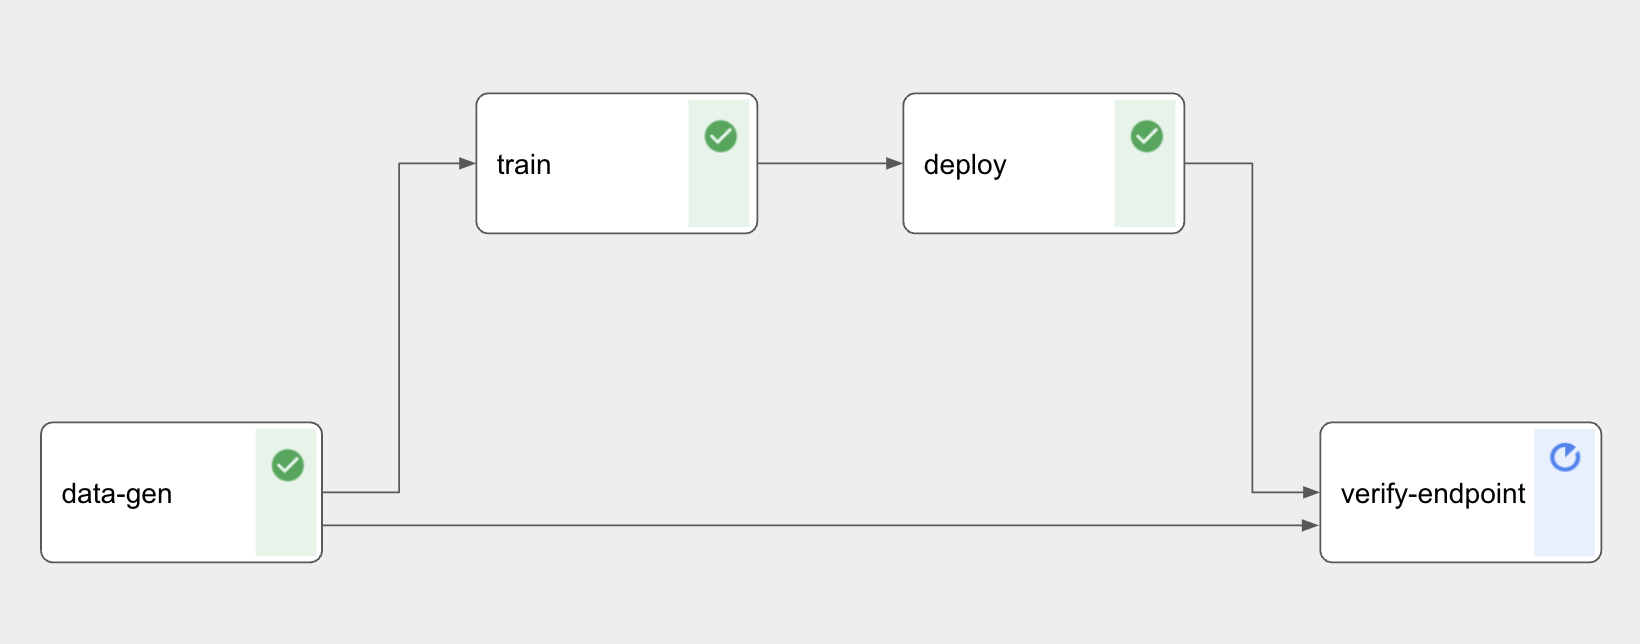
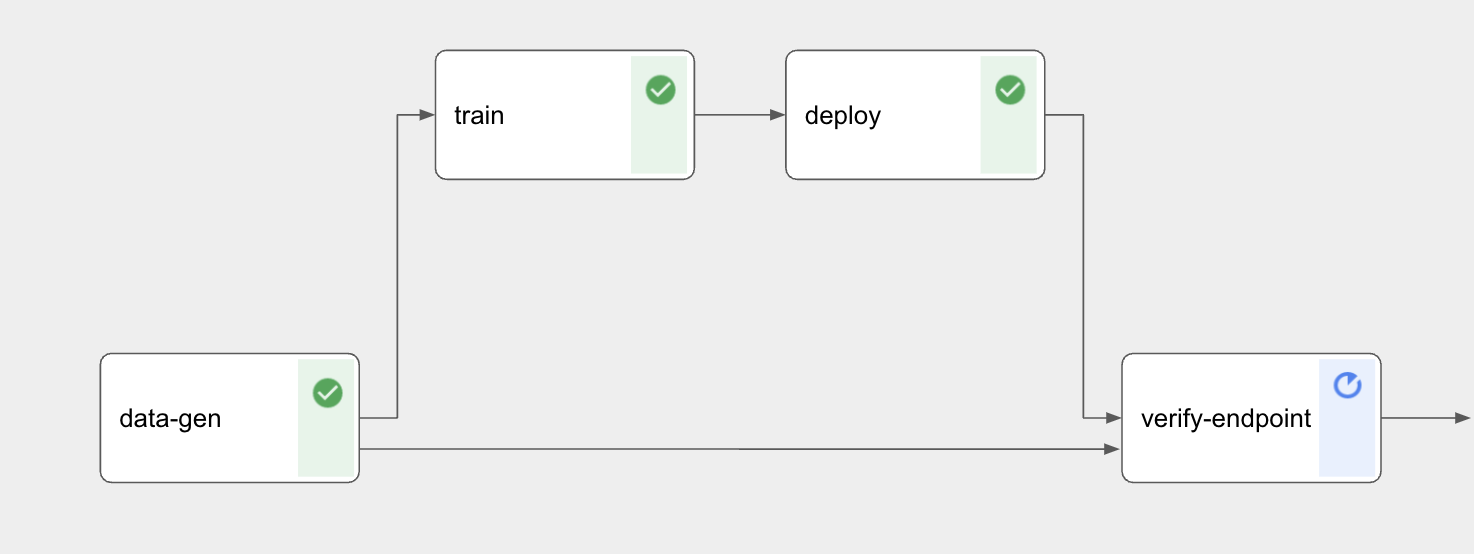
translated texts to english and updated the pipeline image

diff --git a/content/posts/mlops-poc.md b/content/posts/mlops-poc.md
@@ -1,70 +1,73 @@
 ---
-title: "Automating an Machine Learning Pipeline with MLOps"
+title: "Automating the Machine Learning Workflow with MLOps"
 date: 2024-02-02T14:46:18+01:00
-author: "Victor, Lars, Simon & Martin"
+author: "Victor Wolf, Lars Kleinschmidt, Martin Siehler & Simon Siedersleben"
 type: "post"
 image: "mlops-poc/pipeline.png"
 tags: [MLOps, AI, Machine Learning, Kubeflow]
 draft: true
-summary: In diesem Artikel zeigen wir euch unser Konzept eines MLOps Blueprints der QAware.
+summary: In this article we present the QAware concept of an MLOps Blueprint.
 ---
 
-# Was ist MLOps überhaupt?
-MLOps (Machine Learning Operations) ist ein Paradigma, das darauf abzielt, Machine Learning Modelle zuverlässig und effizient zu implementieren und zu warten. MLOps unterscheidet sich vom klassischen DevOps insbesondere dadurch, dass es die Integration von  Modellen und Daten im Entwicklungsprozess, sowie Betrieb umfasst.
-Eine Herausforderung besteht darin, dass diese Daten und Modelle sehr groß sein können, was die aktive Entwicklung und Wartung dieser Systeme erschwert. Im besten Fall orchestriert MLOps nicht nur das Management von Big Data und komplexen Modellen, sondern erleichtert auch die Zusammenarbeit zwischen Data Scientists, Entwicklern und Operations Engineers.
+# What is MLOps anyway?
+MLOps (Machine Learning Operations) is a paradigm that aims to implement and maintain machine learning models reliably and efficiently. MLOps differs from classic DevOps in particular in that it includes the integration of models and data in the development process as well as operations.
+One challenge is that this data and models can be very large, which makes it difficult to actively develop and maintain these systems. At its best, MLOps not only orchestrates the management of big data and complex models, but also facilitates collaboration between data scientists, developers and operations engineers.
 
 
-# Kontext
-Mehr als je zuvor spürt man den Einfluss von KI in der heutigen Gesellschaft. Auch in der Projektwelt gibt es derzeit zahlreiche KI-Projekte oder Projekte, die durch KI optimiert werden können. Sei es in der Gesichtserkennung, Produktempfehlung, Anomalie-Erkennung oder Chatbots. Deswegen haben wir im Rahmen unserer KI-Gilde einen Blueprint entworfen, der KI optimal in die Softwareentwicklung integriert..
+# Context
+More than ever before, the influence of AI can be felt in today's society. In the project world, too, there are currently numerous AI projects or projects that can be optimized using AI. Be it in facial recognition, product recommendation, anomaly detection or chatbots. That is why we have developed a blueprint as part of our AI Guild that optimally integrates AI into software development.
 
-Neben dem Aufbau von Wissen zu diesem Themengebiet wählten wir einen praktischen Ansatz und setzten uns zum Ziel, ein einfaches ML-Problem mittels der typischen MLOps Techniken anzugehen und in einem PoC festzuhalten. Vor allem war uns wichtig, die Pipeline selbst gestalten zu können und sie in einer von uns gemanagten Cloud zu betreiben.
+In addition to building up knowledge on this topic, we chose a practical approach and set ourselves the goal of tackling a simple ML problem using typical MLOps techniques and recording it in a PoC. Above all, it was important for us to be able to design the pipeline ourselves and operate it in a cloud managed by us.
 
-Dabei kam nun direkt die erste Frage auf: Mit welchen Technologien wollen wir diese Pipeline denn überhaupt bauen und deployen? Nach kurzem googeln fanden wir schnell zahlreiche Lösungen, die einen einfachen Einsatz von MLOps mit einem hohen Maß an Anpassbarkeit an Cloud- und Projektbedingungen versprachen. Also folgten wir einfach mal diesen Ansätzen und testeten verschiedene Frameworks aus. Leider mussten wir dann schnell feststellen, dass wir Opfer von viel zu hohen Versprechungen geworden sind. Die Lösungen waren zum Teil technisch viel zu unreif oder eben doch nicht so flexibel einsetzbar wie erhofft.
-ZenML war ein typisches Beispiel dafür. Lokal konnten wir recht schnell eine Pipeline aufsetzen, die unser Problem lösen konnte. Die großen Probleme kamen dann allerdings beim Versuch, diese Pipeline in der Cloud zu betreiben. Die anscheinend einfache Deployment Funktionalität führte zu zahlreichen Fehlern, bei denen wir nach einigen Fix-Versuchen und Einstellen von Issues auf GitHub auch nicht weiter kamen, bis wir das Projekt wieder beiseite legten.
-Einen weiteren Versuch machten wir mit TFX. TFX ist ein TensorFlow Execution Framework, welches auf Kubeflow Pipelines aufbaut. Diese Lösung funktioniert ähnlich zu Kubeflow Pipelines und packt nochmals einen Abstraktionslayer obendrauf. Damit konnten wir Pipelines in der Cloud deployen. Der Mehrwert im Vergleich zu Kubeflow Pipelines allerdings war uns zu gering.
+The first question arose immediately: Which technologies do we actually want to use to build and deploy this pipeline? After a quick google search, we quickly found numerous solutions that promised a simple deployment of MLOps with a high degree of adaptability to cloud and project conditions. So we simply followed these approaches and tested various frameworks. Unfortunately, we soon realized that we had fallen victim to promises that were far too high.Some of the solutions were technically far too immature or not as flexible to use as we had hoped.
+ZenML was a typical example of this.Locally, we were able to quickly set up a pipeline that could solve our problem. However, the big problems came when we tried to operate this pipeline in the cloud.The seemingly simple deployment functionality led to numerous errors, and after a few attempts to fix them and post issues on GitHub, we made no progress until we put the project aside again.
+We made another attempt with TFX. TFX is a TensorFlow execution framework that is based on Kubeflow Pipelines. This solution works similarly to Kubeflow Pipelines and adds an abstraction layer on top. This allowed us to deploy pipelines in the cloud. However, the added value compared to Kubeflow Pipelines was too low for us.
 
-Damit kamen wir unserer Entscheidung jedoch schon einen Schritt näher. Also warum nicht einfach direkt Kubeflow Pipelines einsetzen? Mittels Kubeflow Pipelines lassen sich eigene Pipelines recht einfach definieren und direkt auf einem Kubeflow Cluster deployen. Kubeflow selbst setzt direkt auf den Kubernetes Stack auf und läuft deshalb Cloud agnostisch. Für diese Lösung brauchten wir zwar etwas mehr Anpassungen und Konfiguration, um die Komponenten zu verdrahten. Allerdings hatten wir dadurch auch direkten Einfluss auf die Funktionalität, wie wir sie für unsere Pipeline brauchten. Im Endeffekt begannen wir damals unser eigenes MLOps Framework/Blueprint basierend auf Kubeflow Pipelines aufzubauen. Nun haben wir die volle Kontrolle über die Funktionalität und können bei Problemen einfacher reagieren.
+However, this brought us one step closer to our decision. So why not just use Kubeflow Pipelines directly? With Kubeflow Pipelines, you can easily define your own pipelines and deploy them directly on a Kubeflow cluster. Kubeflow itself is based directly on the Kubernetes stack and therefore runs cloud agnostic. For this solution, we needed a little more customization and configuration to wire the components.
+However, this also gave us direct influence on the functionality we needed for our pipeline. In the end, we started to build our own MLOps framework/blueprint based on Kubeflow pipelines.Now we have full control over the functionality and can react more easily in case of problems.
 
-Damit machten wir uns auf den Weg, den geplanten PoC anzugehen.
+With that, we set out to tackle the planned PoC.
 
 
 # PoC
 
-Um die Entscheidung für Kubeflow zu validieren, haben wir eine Proof of Concept (PoC) Pipeline entwickelt, um die Funktionsweise von Kubeflow im Detail kennenzulernen. Hierfür haben wir ein simples TensorFlow-Modell (Fashion MNIST) genutzt.
+To validate the decision for Kubeflow, we developed a Proof of Concept (PoC) pipeline to get to know the functionality of Kubeflow in detail. We used a simple TensorFlow model (Fashion MNIST) for this.
 
-Für die Ausführung und das Deployment haben wir zwei alternative Varianten aufgebaut. Die eine Variante nutzt eine klassische Kubeflow-Instanz, welche wir in der Google Kubernetes Engine (GKE) laufen lassen, die andere nutzt Vertex AI. Vertex AI kann Kubeflow-Pipelines ausführen, mit wenig administrativen Overhead.
+We developed two alternative variants for execution and deployment. One variant uses a classic Kubeflow instance, which we run in the Google Kubernetes Engine (GKE), while the other uses Vertex AI.
+Vertex AI can run Kubeflow pipelines with little administrative overhead.
 
-Die Vertex AI - Variante ist gut geeignet, wenn man schnell in die Feinheiten von Kubeflow einsteigen möchte, ohne sich um eine Kubeflow-Instanz kümmern zu müssen. Im Sinne der Unabhängigkeit von Cloud-Anbietern macht eine eigene Kubeflow-Instanz aber oftmals mehr Sinn.
+The Vertex AI variant is well suited if you want to quickly get into the intricacies of Kubeflow without having to worry about a Kubeflow instance.
 
-Die Pipeline übernimmt vier Schritte:
+However, in terms of independence from cloud providers, a separate Kubeflow instance often makes more sense.The pipeline performs four steps:
 
-### 1. Daten laden
+### 1. loading data
 
-Die Daten zum Trainieren und Evaluieren des Modells müssen zu Beginn bereitgestellt werden. In diesem Fall werden die Daten aus dem Keras Fahion-MNIST Datensatz geladen. Alternativ können sie aber auch aus CSV-Dateien, Datenbanken oder anderen Datenquellen geladen werden.
+The data for training and evaluating the model must be provided at the beginning. In this case, the data is loaded from the Keras Fahion-MNIST data set. Alternatively, it can also be loaded from CSV files, databases or other data sources.
 
-### 2. Modell trainieren
+### 2. train the model
 
-Das Modell wird trainiert. In diesem Fall wird zum Training TensorFlow genutzt. Die Funktionalität ist per Design jedoch so offen, dass jede Art von Modell trainiert werden kann. Die Pipeline legt das trainierte Modell in ein Google Cloud Bucket ab.
+The model is trained. In this case, TensorFlow is used for training.
 
-### 3. Evaluierung
+However, the functionality is so open by design that any type of model can be trained. The pipeline stores the trained model in a Google Cloud Bucket.### 3. evaluation
 
-Um die Korrektheit des Modells und die Qualität gegenüber vorherigen Versionen zu prüfen, werden in diesem Schritt Tests anhand der in Schritt 1 gesammelten Testdaten durchgeführt. Hieraus können Metriken, wie z. B. die Treffsicherheit erhoben werden. Wenn das Modell gewisse Mindestwerte unterschreitet, oder schlechter ist als das vorherige, kann es abgelehnt werden, damit das alte bereitgestellt bleibt.
+In order to check the correctness of the model and the quality compared to previous versions, tests are carried out in this step using the test data collected in step 1. Metrics such as accuracy can be collected from this. If the model falls below certain minimum values or is worse than the previous one, it can be rejected so that the old one remains available.
 
 ### 4. Serving
 
-Mithilfe eines Serving-Containers, welcher entweder vorgefertigt ist (z. B. der TensorFlow Serving Container) oder selbst erstellt werden kann, wird das Modell an einem Endpunkt bereitgestellt. Hierfür kann entweder Vertex AI Serving genutzt werden, oder der Container wird im bereits für Kubeflow genutzten GKE Cluster deployt.
+The model is deployed to an endpoint using a serving container, which is either pre-built (e.g. the TensorFlow Serving Container) or can be created by the user. Either Vertex AI Serving can be used for this, or the container can be deployed in the GKE cluster already used for Kubeflow.
 
-Wir sind sehr zufrieden über die gebotenen Funktionalitäten. Ein fremdes Modell wurde, mittels unseres PoCs, in kürzester Zeit integriert. Kubeflow zeigt sich vielseitig und vernünftig einsetzbar. Die vier im PoC implementierten Schritte stellen das Minimum für unseren Use Case dar. Allerdings können problemlos weitere Schritte hinzugefügt werden.
+We are very satisfied with the functionalities offered. A third-party model was integrated in a very short time using our PoC. Kubeflow is versatile and can be used sensibly. The four steps implemented in the PoC represent the minimum for our use case.
 
+However, further steps can easily be added.
 
-# Ausblick
-In unserem Bestreben, das ideale MLOps-Ökosystem zu realisieren, haben wir die Erkenntnisse aus unserem PoC genutzt, um weitere wesentliche Aspekte zu berücksichtigen. Ein kritischer Punkt ist, dass unser aktueller PoC stark von Google Cloud Komponenten abhängt. Daher planen wir die Entwicklung eines universellen Blueprints, der nicht nur cloud-agnostisch und anbieterunabhängig ist, sondern auch einfach in der Konfiguration und Integration. Das Schaubild bietet einen Überblick über die geplanten Komponenten des Blueprints.
+# Outlook
+In our quest to realize the ideal MLOps ecosystem, we have used the findings from our PoC to consider other key aspects. One critical point is that our current PoC relies heavily on Google Cloud components. Therefore, we plan to develop a universal blueprint that is not only cloud-agnostic and vendor-independent, but also easy to configure and integrate. The diagram provides an overview of the planned components of the blueprint.
 
 ![](/images/mlops-poc/blueprint_structure.png)
-*Unser MLOps Blueprint Cloud Stack*
+*Our MLOps Blueprint Cloud Stack*
 
-Wir beabsichtigen, unseren PoC durch Observability-Komponenten zu erweitern, wobei ein Prometheus-Grafana-Stack zum Einsatz kommen soll. Evidently AI könnte ebenfalls zur Erfassung ML-spezifischer Metriken verwendet werden. Im Bereich des Continuous Delivery streben wir auch eine Verbesserung an, um eine stärkere Ausrichtung auf GitOps zu erreichen. Das könnte durch die Implementierung von Flux geschehen. Zudem planen wir, unseren aktuellen Serving Container durch ein Serving Framework zu stützen. Hier käme BentoML infrage. Im Datensegment möchten wir mehrere konfigurierbare Datenquellen integrieren. Obwohl der Modellaspekt größtenteils durch unseren PoC abgedeckt ist, sehen wir Potenzial für eine Optimierung durch den Einsatz einer effizienten Modell Registry wie MLflow.
+We intend to extend our PoC with observability components using a Prometheus Grafana stack. Evidently AI could also be used to collect ML-specific metrics. In the area of Continuous Delivery, we are also aiming for an improvement to achieve a stronger focus on GitOps. This could be done by implementing Flux. We are also planning to support our current serving container with a serving framework. BentoML would be an option here. In the data segment, we would like to integrate several configurable data sources. Although the model aspect is largely covered by our PoC, we see potential for optimization through the use of an efficient model registry such as MLflow.
 
-Als Fundament für unseren gesamten MLOps-Stack haben wir uns für Kubeflow entschieden. Dies begründet sich durch dessen Kubernetes-Native Eigenschaften, die eine gewisse Unabhängigkeit von Anbietern  gewährleistet, sowie durch die positiven Erfahrungen, die wir bereits in unserem PoC mit Kubeflow gemacht haben
+We have chosen Kubeflow as the foundation for our entire MLOps stack. This is due to its Kubernetes-native features, which ensure a certain independence from vendors, as well as the positive experiences we have already had with Kubeflow in our PoC
 
-Unser nächstes Ziel ist die Implementierung dieses universellen Blueprints. Damit soll es möglich werden, die vielfältigsten ML Use Cases durch einfache Konfigurationen zu unterstützen. Dies ebnet den Weg für den produktiven Einsatz von ML-Systemen bei QAware, indem es eine flexible und robuste Basis für verschiedene Anwendungen bietet.
+Our next goal is to implement this universal blueprint. This should make it possible to support the most diverse ML use cases with simple configurations. This paves the way for the productive use of ML systems at QAware by providing a flexible and robust basis for various applications.
